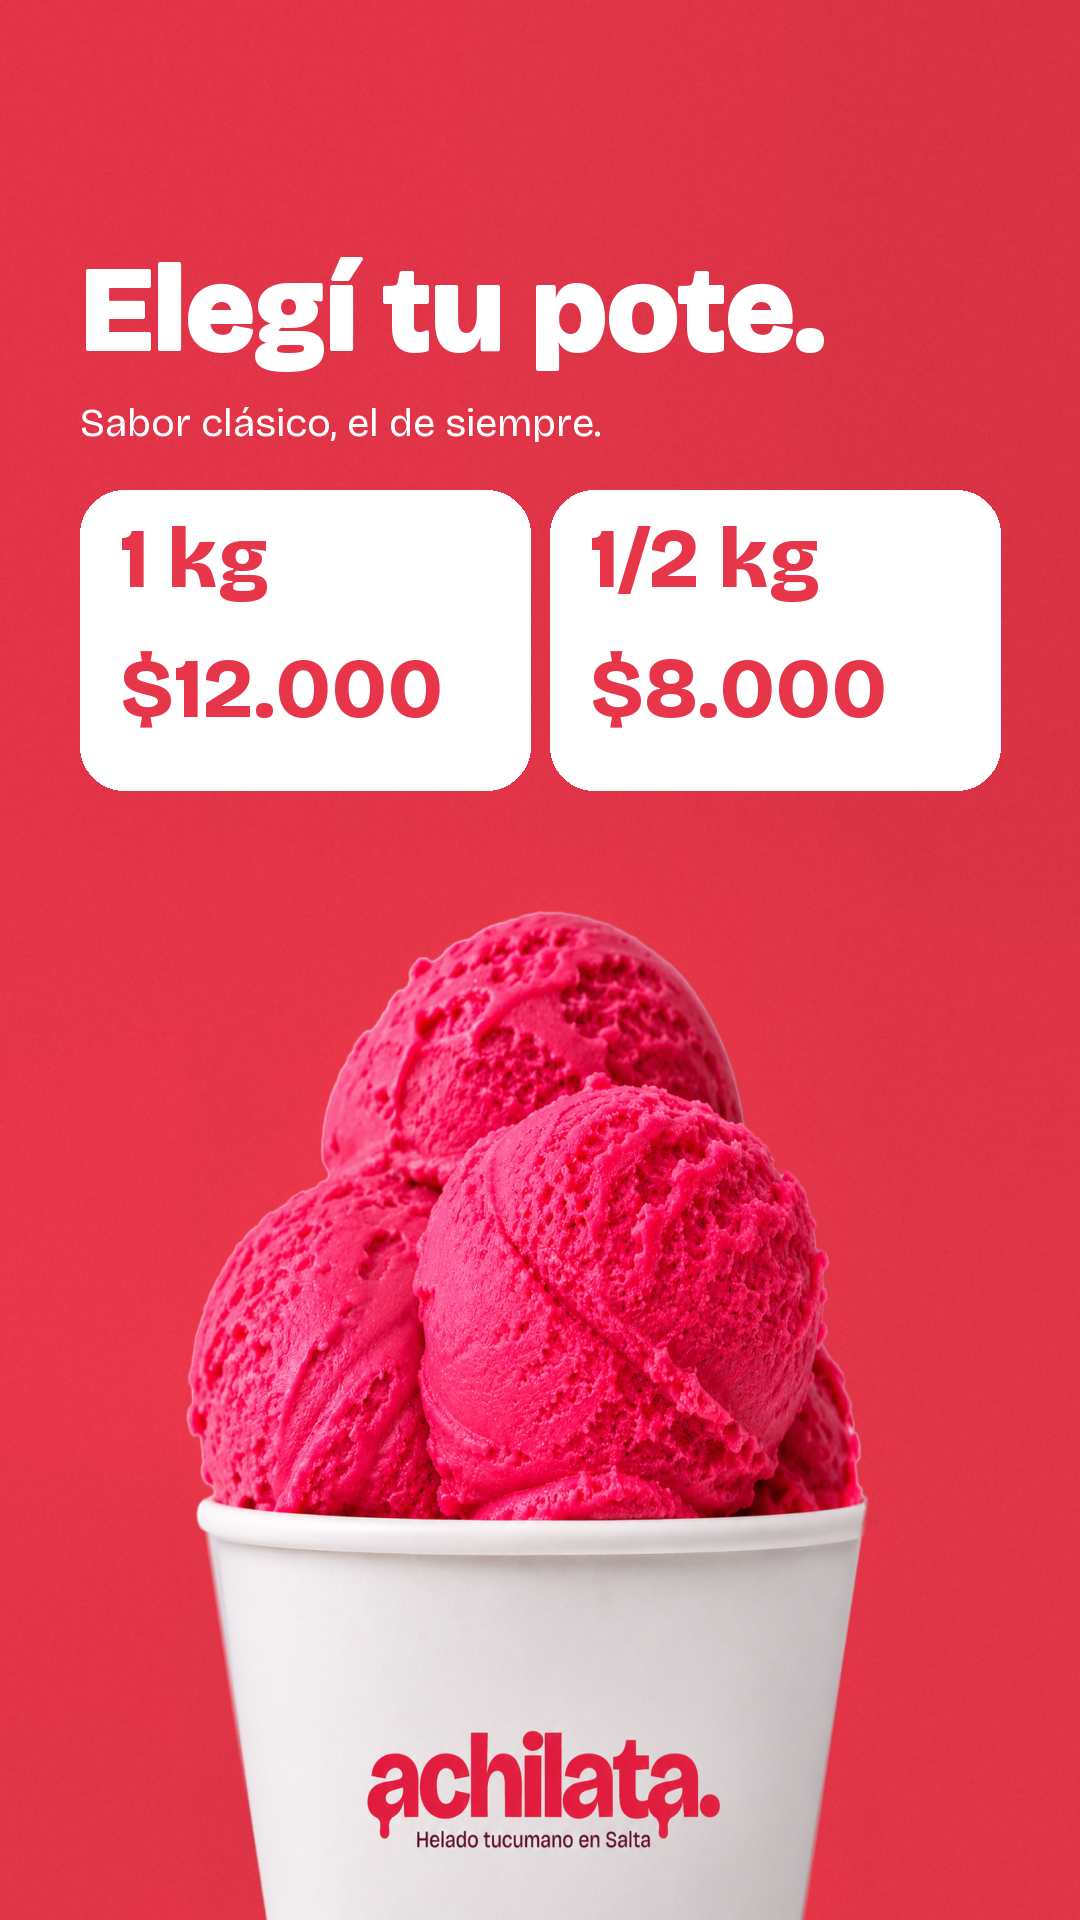
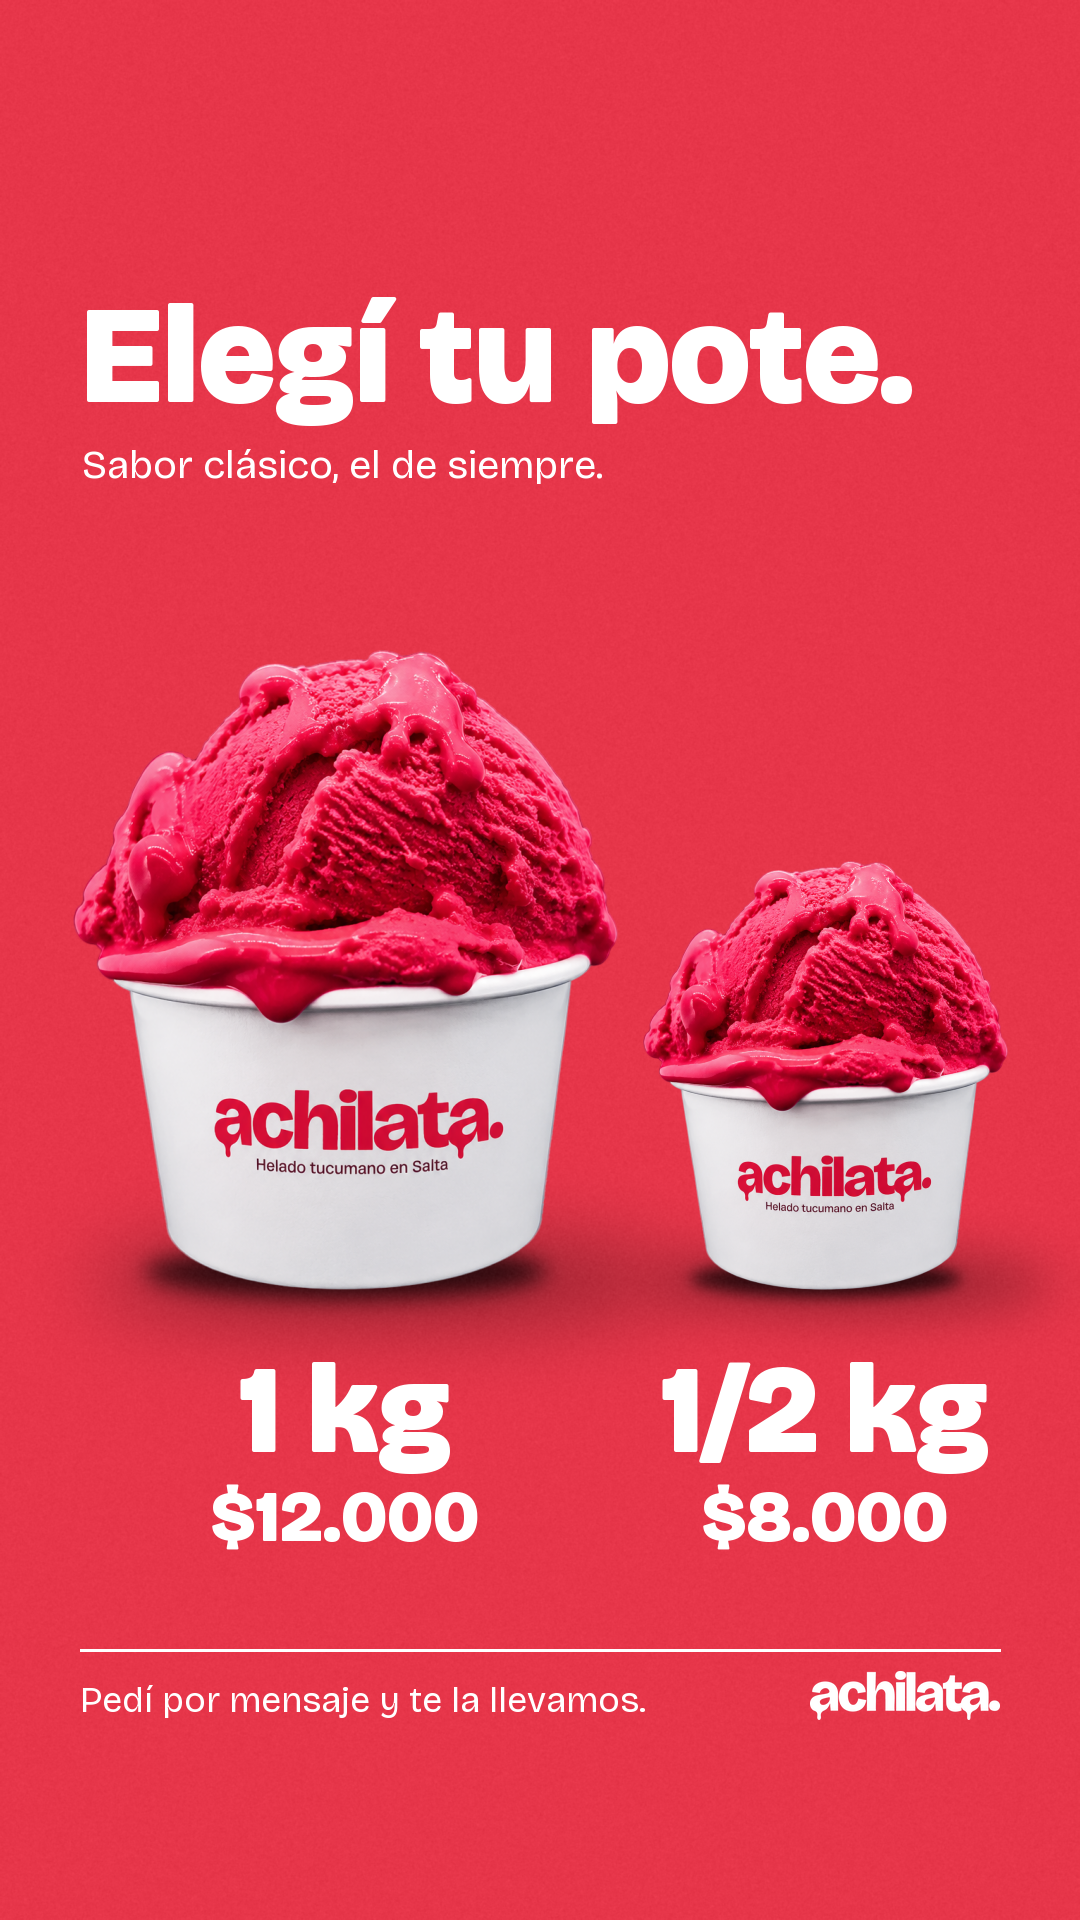
H01 3 precios rehecha: dos potes lado a lado sobre rojo, foto 28

diff --git a/06_Assets/fotos/herramientas/precios.py b/06_Assets/fotos/herramientas/precios.py
@@ -1,0 +1,51 @@
+import sys,os,numpy as np,cv2
+from PIL import Image,ImageDraw,ImageFont
+V=sys.argv[1]; OUT=sys.argv[2]
+FD=r'C:\Users\Lauti\AppData\Local\Microsoft\Windows\Fonts'
+XB=lambda s:ImageFont.truetype(FD+r'\BricolageGrotesque-ExtraBold.ttf',s)
+RG=lambda s:ImageFont.truetype(FD+r'\BricolageGrotesque-Regular.ttf',s)
+INK=lambda s:ImageFont.truetype(r'C:\Windows\Fonts\Inkfree.ttf',s)
+ROJ=np.array([231,54,74],np.float32); W,H=1080,1920
+a=np.load(f'{V}/a28.npy'); F=np.load(f'{V}/f28.npy')
+ys,xs=np.where(a>0.02); y0,y1,x0,x1=ys.min(),ys.max()+1,xs.min(),xs.max()+1
+a=a[y0:y1,x0:x1]; F=F[y0:y1,x0:x1]
+rng=np.random.default_rng(3)
+bg=np.zeros((H,W,3),np.float32)+ROJ
+shade=np.ones((H,W),np.float32)
+cups=[]
+def cup(w,cx,bottom):
+    h=round(a.shape[0]*w/a.shape[1])
+    aa=cv2.resize(a,(w,h),interpolation=cv2.INTER_AREA); ff=cv2.resize(F,(w,h),interpolation=cv2.INTER_AREA)
+    x=cx-w//2; y=bottom-h
+    # contact + soft cast shadow
+    sh=np.zeros((H,W),np.float32)
+    cv2.ellipse(sh,(cx,bottom-int(w*0.035)),(int(w*0.37),int(w*0.05)),0,0,360,1,-1)
+    soft=np.zeros((H,W),np.float32)
+    cv2.ellipse(soft,(cx+int(w*0.08),bottom-int(w*0.02)),(int(w*0.55),int(w*0.08)),0,0,360,1,-1)
+    m=cv2.GaussianBlur(sh,(0,0),w*0.02)*0.55+cv2.GaussianBlur(soft,(0,0),w*0.07)*0.35
+    global shade; shade=shade*(1-m)
+    cups.append((ff,aa,x,y))
+cup(545,345,1290)
+cup(365,825,1290)
+g=cv2.GaussianBlur(rng.normal(0,1,(H,W)).astype(np.float32),(0,0),0.7); g/=g.std()
+img=bg*shade[...,None]+g[...,None]*1.4
+base=Image.fromarray(np.clip(img,0,255).astype(np.uint8)).convert('RGBA')
+d=ImageDraw.Draw(base)
+def T(x,y,t,f,anchor='ls',stroke=True,fill='#FFFFFF'):
+    sw=max(1,round(f.size*0.015)) if stroke else 0
+    d.text((x,y),t,font=f,fill=fill,anchor=anchor,stroke_width=sw,stroke_fill=fill)
+# behind-the-cup typography
+T(80,400,'Elegí tu pote.',XB(132)); T(82,478,'Sabor clásico, el de siempre.',RG(40),stroke=False)
+out=np.asarray(base.convert('RGB')).astype(np.float32)
+for ff,aa,x,y in cups:
+    h,w=aa.shape; reg=out[y:y+h,x:x+w]
+    out[y:y+h,x:x+w]=ff*aa[...,None]+reg*(1-aa[...,None])
+im=Image.fromarray(np.clip(out,0,255).astype(np.uint8)).convert('RGBA'); d=ImageDraw.Draw(im)
+T(345,1450,'1 kg',XB(120),anchor='ms'); T(345,1540,'$12.000',XB(70),anchor='ms')
+T(825,1450,'1/2 kg',XB(120),anchor='ms'); T(825,1540,'$8.000',XB(70),anchor='ms')
+d.line((80,1650,1000,1650),fill='#FFFFFF',width=3)
+T(80,1712,'Pedí por mensaje y te la llevamos.',RG(36),stroke=False)
+LG=r'C:\Users\Lauti\Documents\Proyecto - Achilata\06_Assets\logo\achilata-sin-bajada-blanco.png'
+lg=Image.open(LG).convert('RGBA'); lg=lg.crop(lg.getbbox()); lw=190; lg=lg.resize((lw,round(lg.height*lw/lg.width)),Image.LANCZOS)
+im.alpha_composite(lg,(1000-lw,1712-lg.height+8))
+im.convert('RGB').save(OUT)

diff --git a/04_Contenido/registro_publicaciones.md b/04_Contenido/registro_publicaciones.md
@@ -5,3 +5,4 @@
 | | | | | | |
 | 19/11/2026 20.00 | Instagram | Carrusel P01, v2 de 5 placas | Hay achilata en Salta. Estudio rojo, fotos 05, 16, 10 y 11 | | Enviado al WhatsApp de Lauti; la v1 se descartó |
 | 19/11/2026 19.30 a 22.00 | Instagram | 5 historias H01, v2 | Volvimos, nueva publicación, precios, encuesta y pedidos. Fotos 02, 07 y 13 | | Enviado al WhatsApp de Lauti |
+| 19/11/2026 20.30 | Instagram | H01 3 precios, v3 | Rehecha: potes de 1 kg y 1/2 kg lado a lado sobre rojo, foto 28 | | Enviado al WhatsApp de Lauti |
